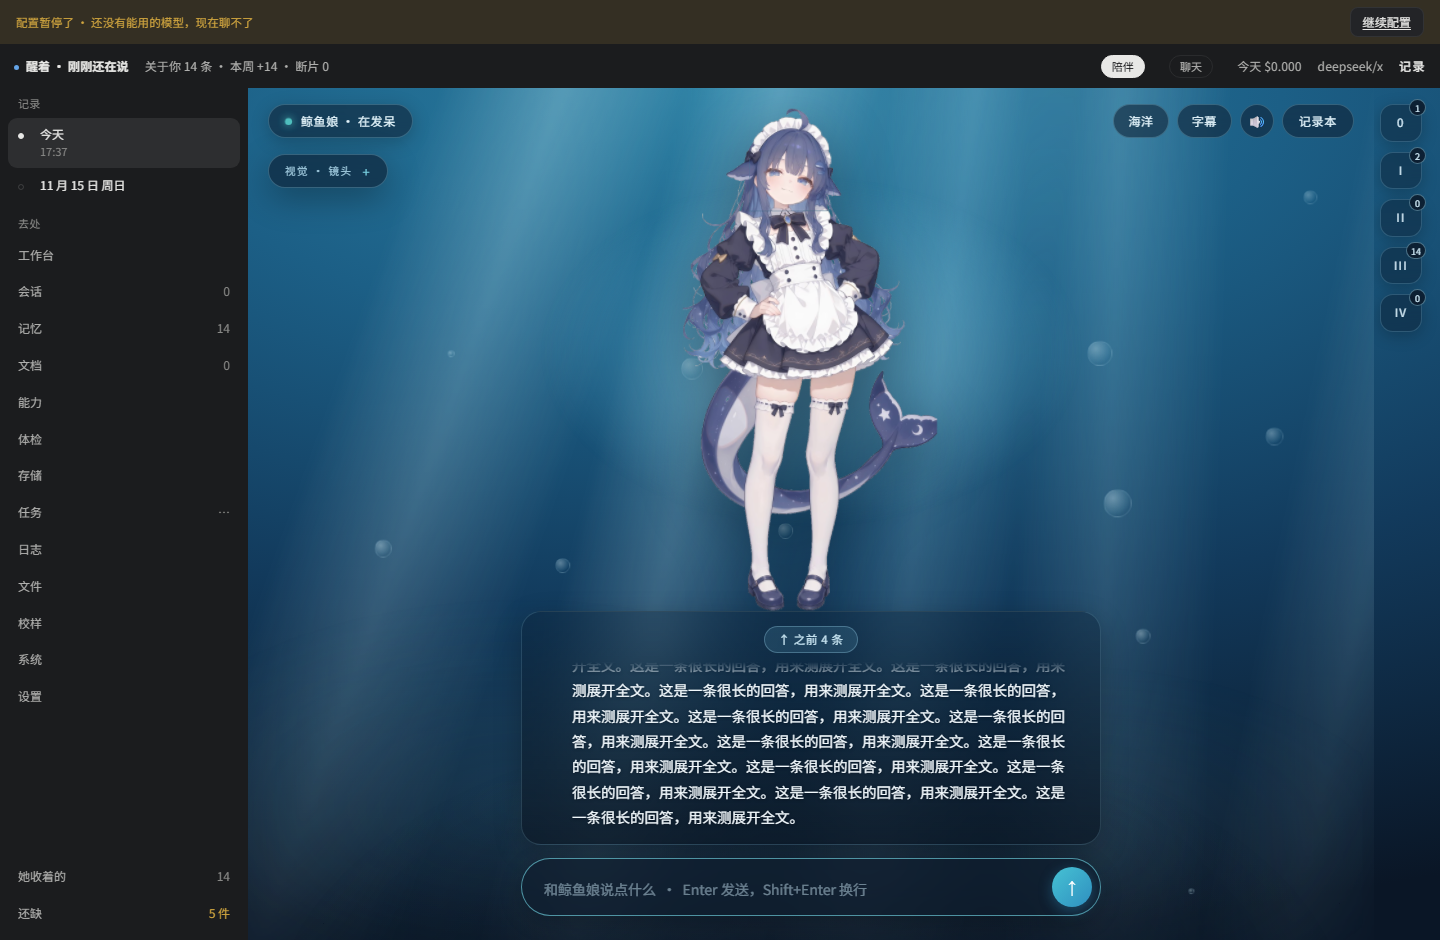
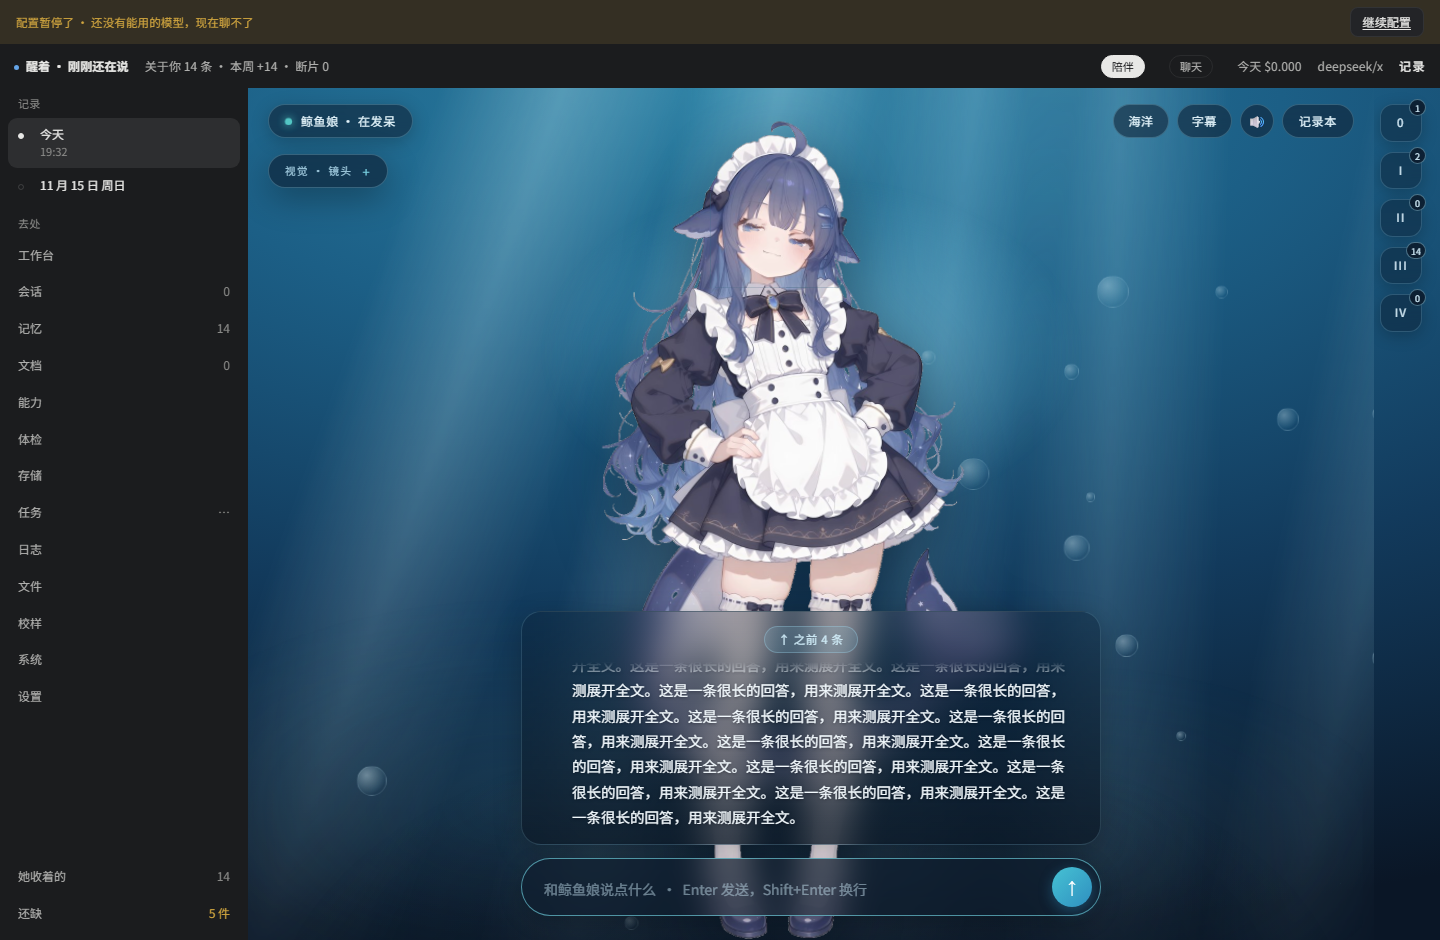
docs: README 三图换回滚后实拍（陪伴恢复改动前效果）；URL 加 v 参数破 camo 缓存

diff --git a/README.md b/README.md
@@ -10,7 +10,7 @@
 
 [中文](README.zh-CN.md) · **English**
 
-![Companion mode — ocean (default Carbon theme)](docs/images/companion-ocean-dark.png)
+![Companion mode — ocean (default Carbon theme)](docs/images/companion-ocean-dark.png?v=20261117b)
 
 > Captured 2026-11-17 from the current build. The companion window is above; the notebook and the light companion are shown below.
 
@@ -48,7 +48,7 @@ The same memory and persona can live in a lighter window: she stands on your des
 
 | Companion · Ocean (Daylight light theme) | Notebook, three columns (default Carbon) |
 |---|---|
-| ![Companion mode — ocean backdrop (Daylight light theme)](docs/images/companion-ocean.png) | ![Notebook, three columns](docs/images/workbench.png) |
+| ![Companion mode — ocean backdrop (Daylight light theme)](docs/images/companion-ocean.png?v=20261117b) | ![Notebook, three columns](docs/images/workbench.png?v=20261117b) |
 
 Four themes (ledger black-on-white compact / hermes paper-white wide / daylight warm consumer light / carbon friendly tool dark, **carbon is the default when unset**), two shells (three-column notebook / single-column focus, **three columns by default**) and two ways to be with her: a companion window or the full notebook. The boot splash defaults to the simple tier. Switch at runtime; three behavioral signatures survive every theme: no "new chat" button, visible silence gaps, and an "awake + time since last" status line.
 

diff --git a/README.zh-CN.md b/README.zh-CN.md
@@ -10,7 +10,7 @@
 
 [English](README.md) · **中文**
 
-![陪伴模式 · 海洋（默认 Carbon 主题）](docs/images/companion-ocean-dark.png)
+![陪伴模式 · 海洋（默认 Carbon 主题）](docs/images/companion-ocean-dark.png?v=20261117b)
 
 > 三张图均于 2026-11-17 从当前版本实拍。上图是陪伴窗口；记录本与浅色陪伴见下方。
 
@@ -49,7 +49,7 @@
 
 | 陪伴 · 海洋（Daylight 浅色主题） | 记录本三栏（默认 Carbon 主题） |
 |---|---|
-| ![陪伴模式 · 海洋背景（Daylight 浅色主题）](docs/images/companion-ocean.png) | ![记录本三栏](docs/images/workbench.png) |
+| ![陪伴模式 · 海洋背景（Daylight 浅色主题）](docs/images/companion-ocean.png?v=20261117b) | ![记录本三栏](docs/images/workbench.png?v=20261117b) |
 
 四套主题（ledger 黑白紧凑 / hermes 纸白宽版 / daylight 暖白消费级 / carbon 深灰工具级，**未配置时默认 carbon**）
 与两种外壳（三栏记录本 / 单栏专注，**默认三栏**）、两种相处方式（陪伴窗口 / 完整记录本）。
